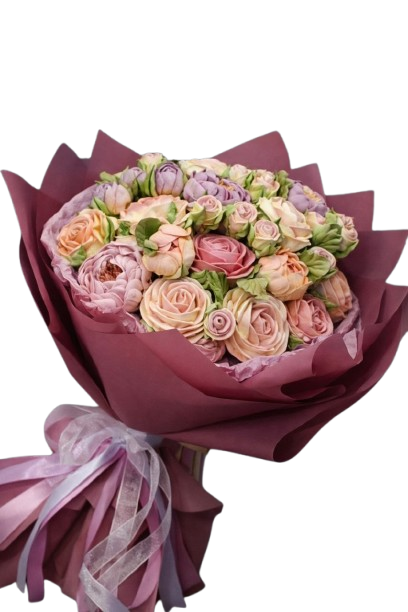
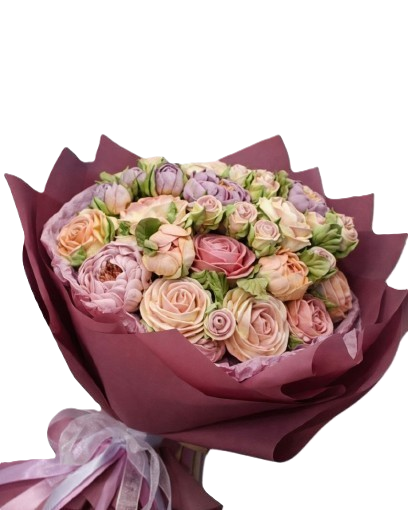
style: rework Hero photo composition with layered overlap and responsive sizing

diff --git a/src/components/Main/Hero/MainPage/MainPage.jsx b/src/components/Main/Hero/MainPage/MainPage.jsx
@@ -64,19 +64,33 @@ const MainPage = () => {
 
             <div className={style.btnMainBox}>
               <Link
-                style={{ position: "relative", zIndex: "2" }}
+                style={{ position: "relative", zIndex: "5" }}
                 to="/catalog"
                 className="btn-primary btn"
               >
                 Обрати букет
               </Link>
-              <Link to="/HowToOrder" className="btn">
+              <Link
+                style={{
+                  position: "relative",
+                  zIndex: "2",
+                  backgroundColor: "var(--paper)",
+                }}
+                to="/HowToOrder"
+                className="btn"
+              >
                 Як це працює
               </Link>
             </div>
 
             <div className={style.mainPrimary}>
-              <div className={style.boxPrimary}>
+              <div
+                className={style.boxPrimary}
+                style={{
+                  position: "relative",
+                  zIndex: "2",
+                }}
+              >
                 <img src={LogoImg} alt="svg" />
                 <p>Тримає форму 5 днів</p>
               </div>

diff --git a/src/components/Main/Hero/MainPage/mainPage.module.css b/src/components/Main/Hero/MainPage/mainPage.module.css
@@ -42,27 +42,55 @@
   }
 }
 
+
 #img1 {
-  max-width: 130px;
-  right: 10px;
-  top: -5%;
+  max-width: 95px; 
+  right: 15px; 
+  top: 3%;
+  rotate: 10deg;
+  z-index: 3;
 }
 
 #img2 {
-  max-width: 110px;
-  right: 5px;
-  top: 20%;
-  rotate: calc(40deg);
+  max-width: 90px; 
+  right: 15px; 
+  top: 25%;
+  rotate: 10deg;
+  z-index: 4;
 }
 
 #img3 {
-  max-width: 160px;
-  left: 6%;
-  top: 6%;
-
-  /* rotate: calc(40deg); */
-  rotate: calc(0deg);
+  max-width: 250px; 
+  left: 0%;
+  top: -15%;
+  rotate: 0deg;
   z-index: 1;
+}
+
+@media (min-width: 375px) {
+  #img1 {
+    max-width: 120px;
+    right: 30px;
+    top: 0%;
+    rotate: 10deg;
+    z-index: 3;
+  }
+
+  #img2 {
+    max-width: 110px;
+    right: 30px;
+    top: 27%;
+    rotate: 10deg;
+    z-index: 4;
+  }
+
+  #img3 {
+    max-width: 300px;
+    left: 2%;
+    top: -20%;
+    rotate: 0deg;
+    z-index: 1;
+  }
 }
 
 .btnMainBox {
